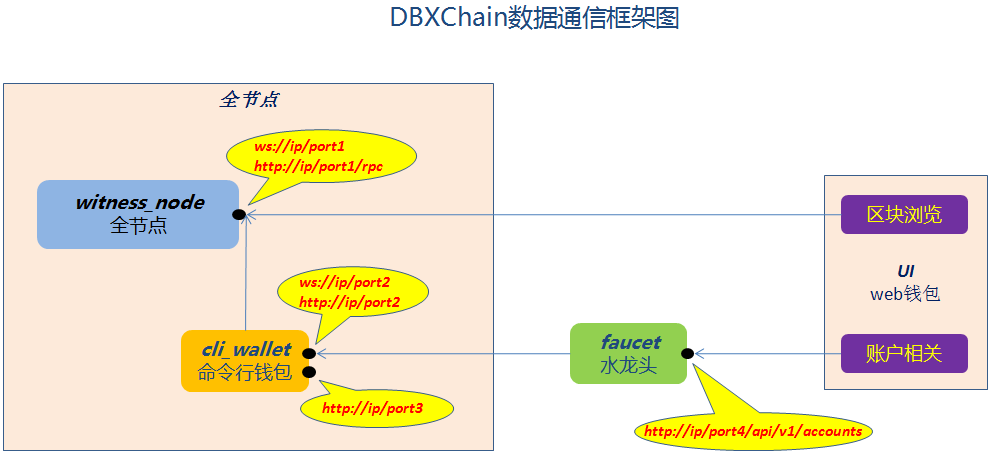
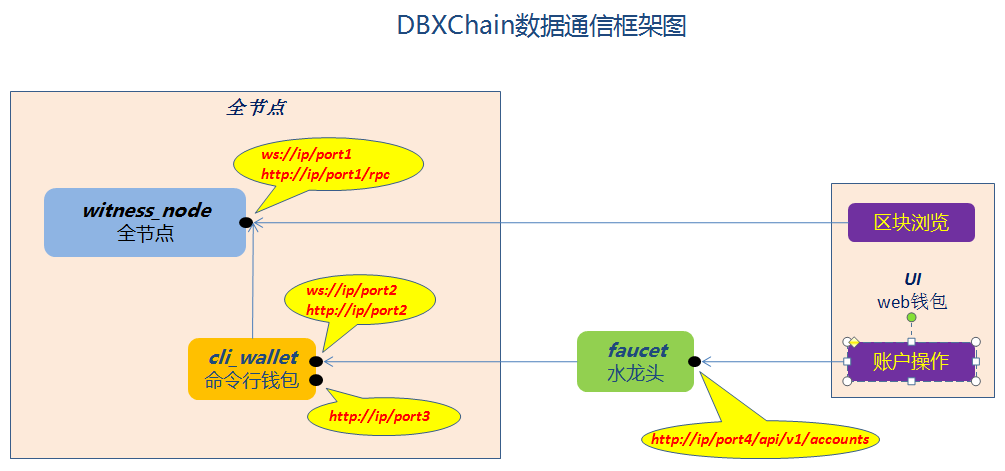
udpate

Changed region(s): [[0.0, 0.1838, 1.0, 1.0], [0.3939, 0.0, 0.697, 0.0919], [0.4242, 0.6127, 0.4545, 0.6433]]

diff --git a/node/api/introduction.md b/node/api/introduction.md
@@ -5,7 +5,8 @@
 
 由图可知，api的调用逻辑可以分为两大主线进行区分，即`区块浏览`和`账户操作`。
 
-`区块浏览`
+`区块浏览`相关的功能调用，直接访问witness_node的api接口。
+`账户操作`相关的功能调用，需要访问水龙头的api接口；水龙头再访问cli_wallet的api接口，cli_wallet最后再调用witness_node的api接口。
 
 `web钱包`，主要有两部分功能，即区块浏览和在线账户注册。
 
